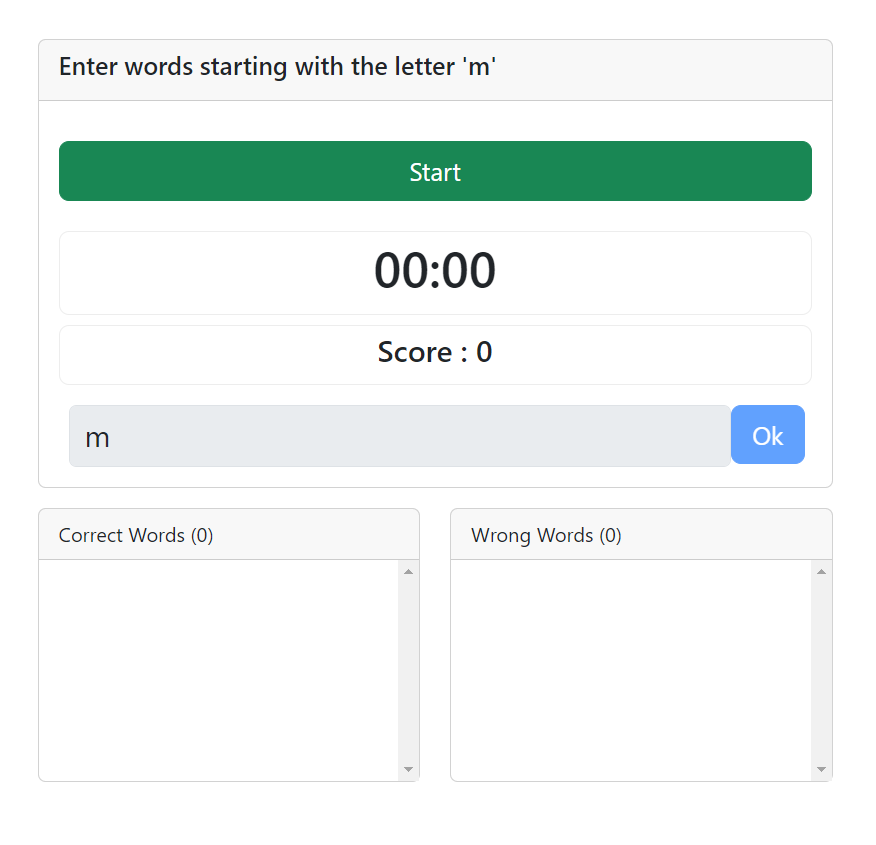
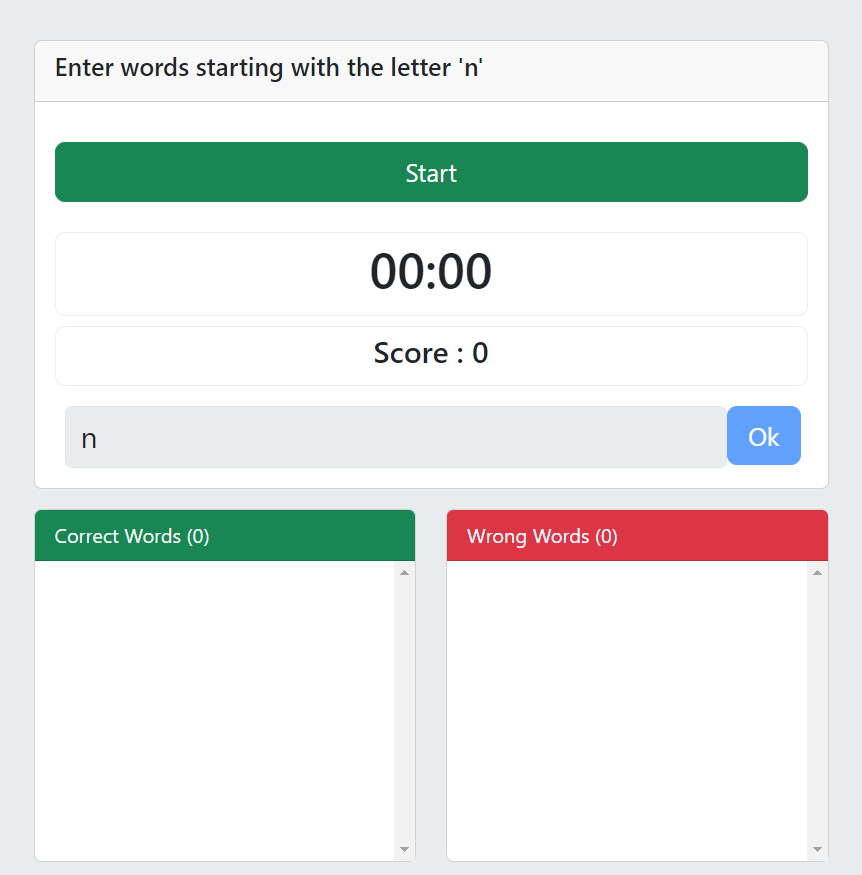
Styling

diff --git a/pages/Home/index.js b/pages/Home/index.js
@@ -123,7 +123,7 @@ export default function Home() {
                 <h5>Enter words starting with the letter '{letter}'</h5>
               </div>
               <div className='card-body'>
-                {timer == 0 && <button className={`btn btn-lg btn-success col-lg-12 ${styles.startButton}`} onClick={() => Start()}>Start</button>}
+                <button className={`btn btn-lg btn-success col-lg-12 ${styles.startButton}`} disabled={timer > 0 ? "disabled" : ""} onClick={() => Start()}>Start</button>
                 <div className={styles.countDownWrapper}>
                   <h1 className='text-center'>{timerToString()}</h1>
                 </div>
@@ -146,12 +146,15 @@ export default function Home() {
 
               <div className='col col-md-6'>
                 <div className={`card ${styles.wordList}`}>
-                  <div className='card-header'>
+                  <div className='card-header bg-success text-light'>
                     Correct Words ({correctWordList.length})
                   </div>
                   <div className='card-body'>
                     <ul>
-                      {correctWordList.sort().reverse().map((item, key)=> { return <li key={key}>{item}</li> })}
+                      {correctWordList.sort().reverse().map((item, key)=> { return <li key={key} className="text-success">
+                        <span>{key + 1} - {item}</span> 
+                        <span className={`${styles.point} badge bg-success text-light`}>{item.length * 10}</span>
+                        </li>})}
                     </ul>
                   </div>
                 </div>
@@ -159,12 +162,15 @@ export default function Home() {
 
               <div className='col col-md-6'>
                 <div className={`card ${styles.wordList}`}>
-                  <div className='card-header'>
+                  <div className='card-header bg-danger text-light'>
                     Wrong Words ({wrondWordList.length})
                   </div>
                   <div className='card-body'>
                     <ul>
-                      {wrondWordList.sort().reverse().map((item, key)=> { return <li key={key}>{item}</li> })}
+                      {wrondWordList.sort().reverse().map((item, key)=> { return <li key={key} className="text-danger">
+                        <span>{key + 1} - {item}</span>
+                        <span className={`${styles.point} badge bg-danger text-light`}>-{item.length * 10}</span>
+                        </li>})}
                     </ul>
                   </div>
                 </div>

diff --git a/styles/globals.css b/styles/globals.css
@@ -4,6 +4,7 @@ body {
   margin: 0;
   font-family: Inter, -apple-system, BlinkMacSystemFont, Segoe UI, Roboto,
     Oxygen, Ubuntu, Cantarell, Fira Sans, Droid Sans, Helvetica Neue, sans-serif;
+  background-color: #e9ecef !important;
 }
 
 a {
@@ -26,12 +27,18 @@ p,
 ul {
   margin: 0;
 }
-
 ul {
-  padding: 0;
+  padding: 0 !important;
   list-style: none;
 }
-
+ul li{
+  padding: 0.2rem 0;
+  border-bottom: 1px solid #ededed;
+  display: flex;
+  flex-direction: row;
+  flex-wrap: nowrap;
+  justify-content: space-between;
+}
 button {
   padding: 0.5rem 1rem;
   font-weight: bold;

diff --git a/pages/Home/Home.module.css b/pages/Home/Home.module.css
@@ -1,6 +1,6 @@
 .container {
   min-height: 90vh;
-  padding: 3rem 0.5rem;
+  padding: 2rem 0.5rem 0;
   display: flex;
   flex-direction: column;
   justify-content: center;
@@ -93,7 +93,7 @@
   margin: 1rem 0;
 }
 .wordList > :global(.card-body){
-  height: 40vh;
+  height: 34vh;
   overflow-y: scroll;
 }
 :global(.form-control).formControl {
@@ -121,4 +121,7 @@
   padding: 0.3rem;
   border-radius: 0.5rem;
   margin: 0.5rem 0;
+}
+.point {
+  line-height: 1rem;
 }
